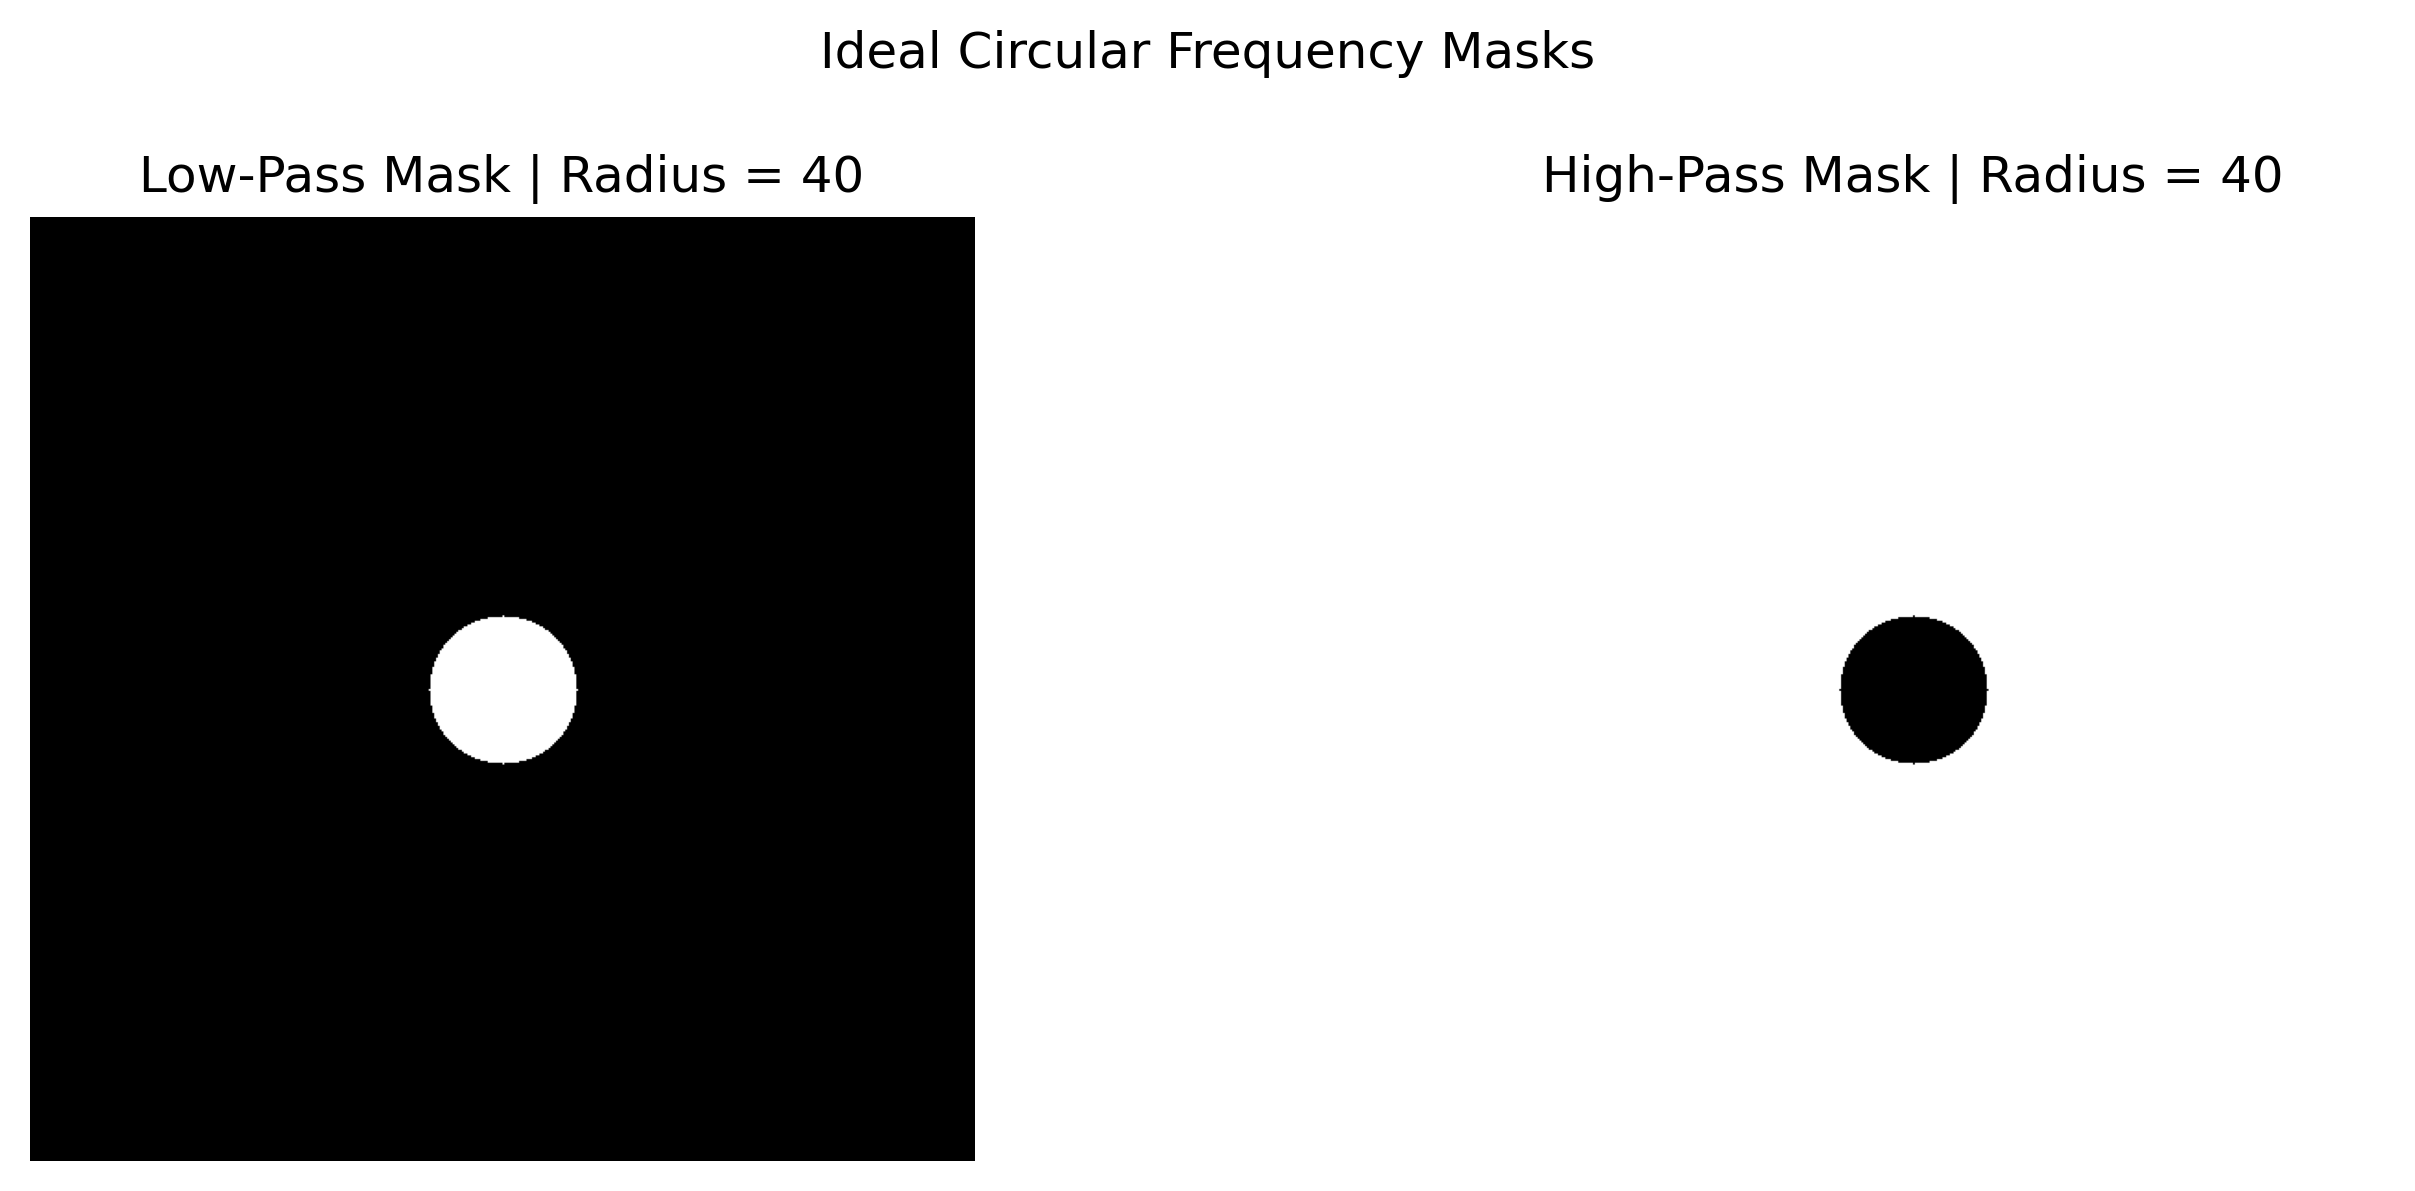
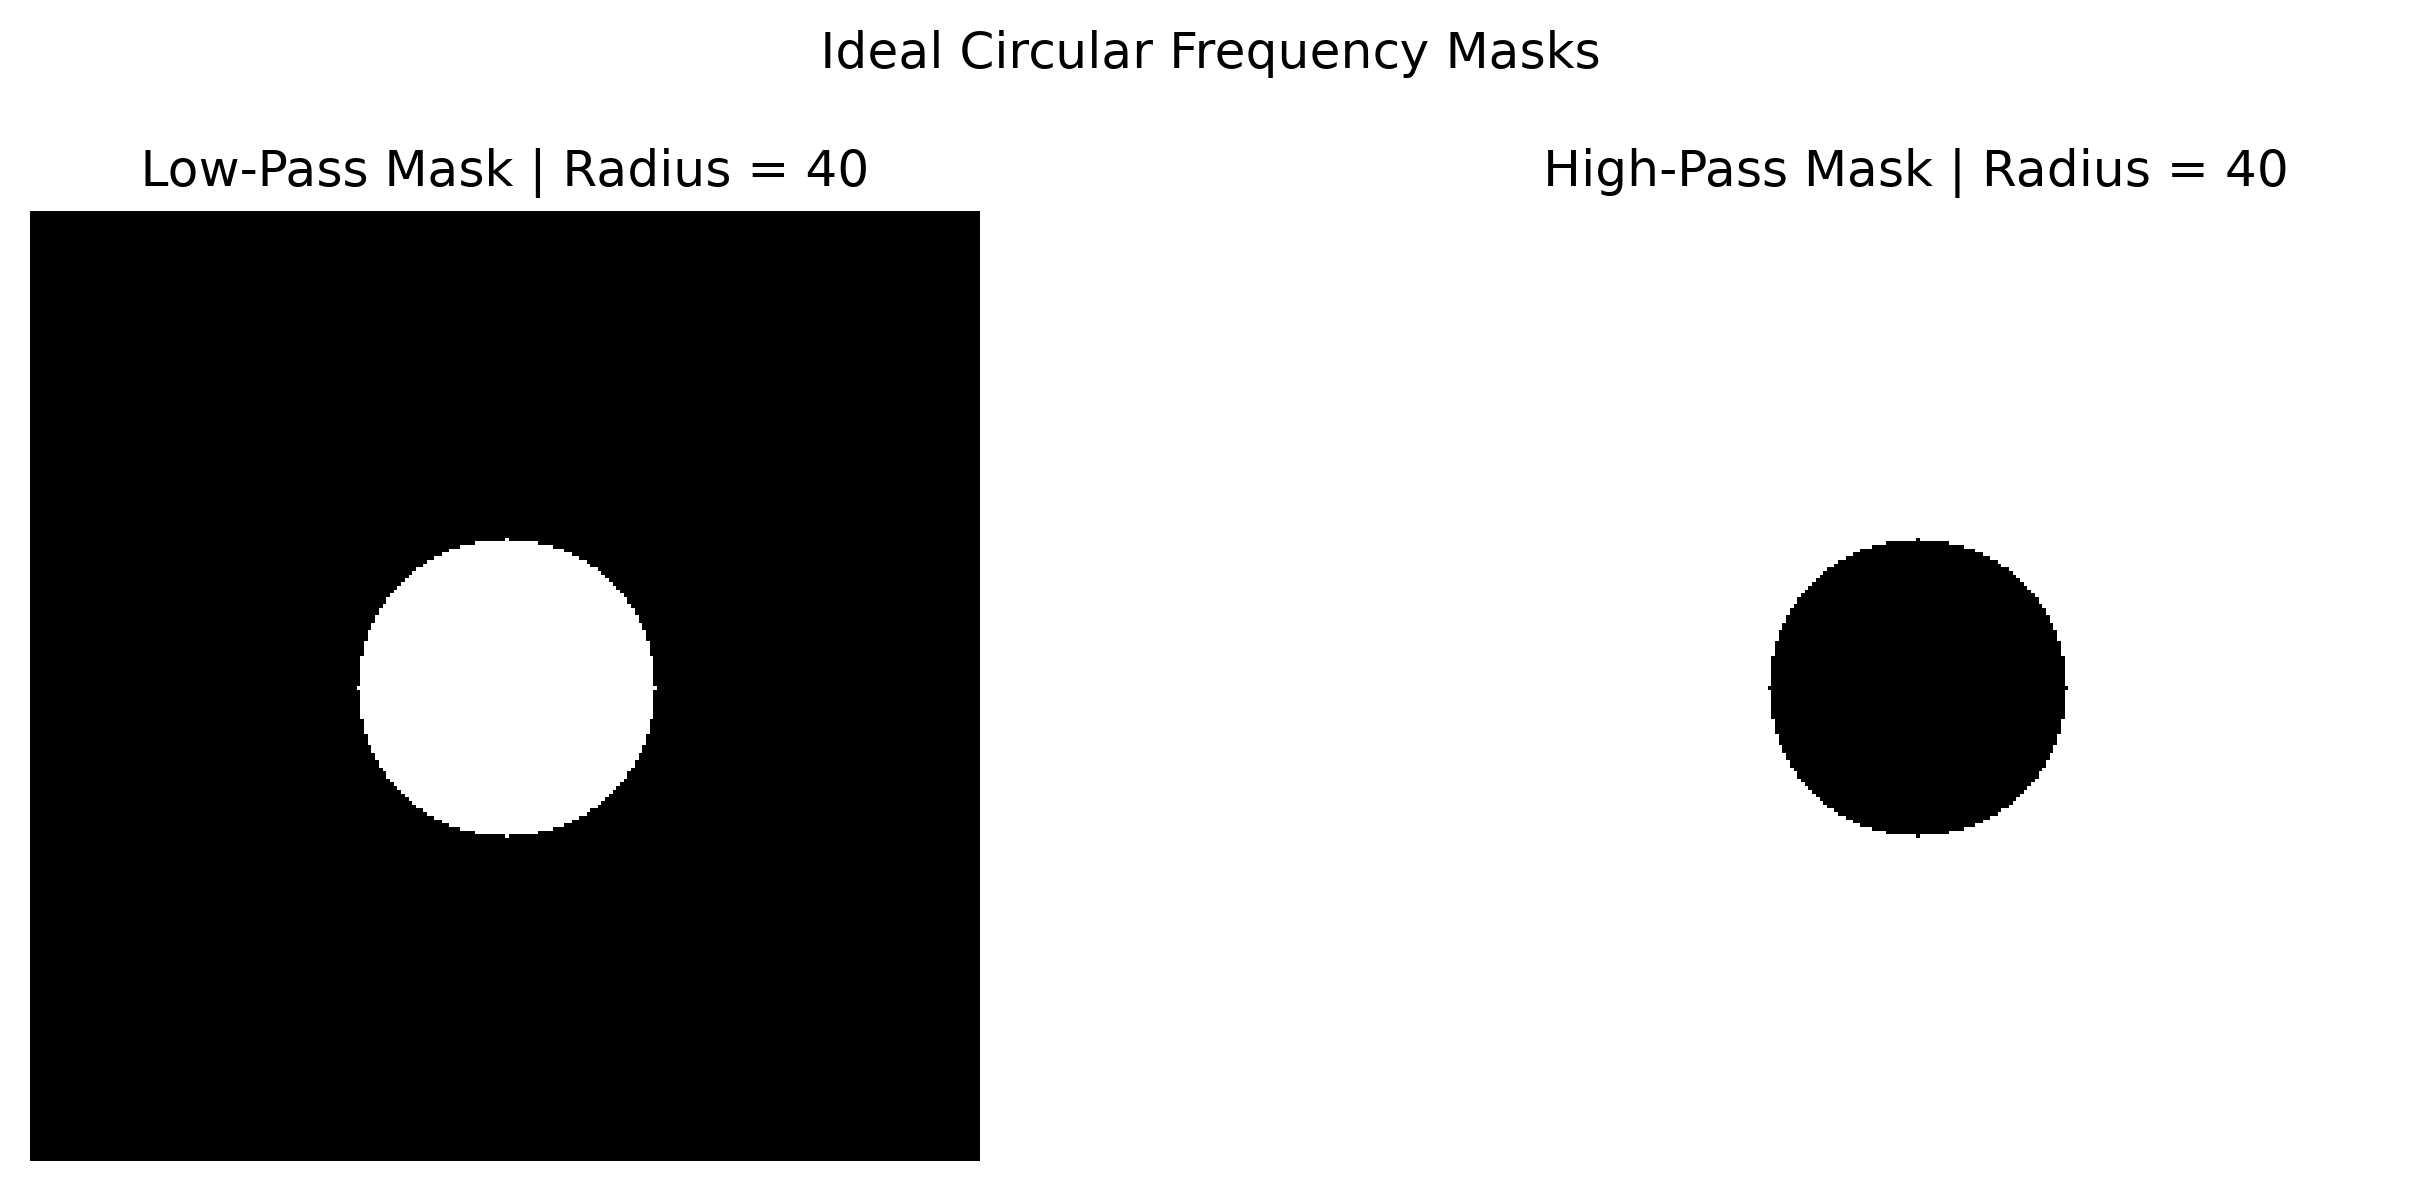
added student 1

diff --git a/students/student1_mathematical_signal_dtft/student1.py b/students/student1_mathematical_signal_dtft/student1.py
@@ -1,15 +1,387 @@
+#!/usr/bin/env python3
+"""
+Student 1 - Mathematical Signal & DTFT
+=====================================================
+
+Programming tasks:
+1. Generate a signal containing two sinusoidal components and Gaussian noise.
+2. Compute the DTFT from its defining equation using loops for a limited
+   number of samples and frequency points.
+3. Plot the magnitude and phase spectra.
+
+Theory explained in this module:
+- Discrete-time signals: x[n] obtained by sampling continuous time at t = n / fs.
+- Angular frequency (omega): Digital angular frequency omega = 2 * pi * f / fs (rad/sample),
+  where the unique frequency range for real signals is [0, pi] (up to Nyquist fs / 2).
+- Discrete-Time Fourier Transform (DTFT):
+      X(e^{j*omega}) = sum_{n=0}^{N-1} x[n] * e^{-j * omega * n}
+  which maps a discrete-time aperiodic sequence into a continuous, 2*pi-periodic
+  complex spectrum in omega.
+- Magnitude and Phase:
+      |X(e^{j*omega})| = sqrt(Re(X)^2 + Im(X)^2)  (energy/strength at frequency omega)
+      angle(X(e^{j*omega})) = atan2(Im(X), Re(X)) (initial phase shift of frequency omega)
+
+Run standalone with:
+    python students/student1_mathematical_signal_dtft/student1.py
+"""
+
+from __future__ import annotations
+
+import cmath
+import os
+import sys
+from pathlib import Path
+
+# Keep plotting non-blocking when there is no display server (e.g. headless/CI).
+if not os.environ.get("DISPLAY") and sys.platform != "win32":
+    os.environ.setdefault("MPLBACKEND", "Agg")
+
+import numpy as np
+import matplotlib.pyplot as plt
+
+# Allow direct execution of this file (adds the project root to sys.path).
+PROJECT_ROOT = Path(__file__).resolve().parents[2]
+if str(PROJECT_ROOT) not in sys.path:
+    sys.path.insert(0, str(PROJECT_ROOT))
+
+
+# ============================================================
+# 1. GENERATE DISCRETE-TIME MATHEMATICAL SIGNAL
+# ============================================================
+
 def generate_signal(sample_rate=1000.0, duration=0.25, f1=50.0, f2=120.0,
                     amplitude1=1.0, amplitude2=0.6, noise_std=0.3, seed=0):
-    pass
+    """
+    Generate a discrete-time signal containing two sinusoidal components
+    and additive white Gaussian noise (AWGN).
 
+    Mathematical model:
+        x[n] = A1 * sin(omega1 * n) + A2 * cos(omega2 * n) + w[n]
+    where:
+        n      = 0, 1, ..., N - 1   (discrete sample index, N = round(fs * duration))
+        omega1 = 2 * pi * f1 / fs   (normalized angular frequency 1 in rad/sample)
+        omega2 = 2 * pi * f2 / fs   (normalized angular frequency 2 in rad/sample)
+        w[n]   ~ N(0, noise_std^2)  (zero-mean Gaussian noise)
+
+    Parameters
+    ----------
+    sample_rate : float
+        Sampling frequency fs in Hz.
+    duration : float
+        Signal duration in seconds.
+    f1 : float
+        Frequency of the first sinusoidal component in Hz.
+    f2 : float
+        Frequency of the second sinusoidal component in Hz.
+    amplitude1 : float
+        Amplitude A1 of the first sinusoid.
+    amplitude2 : float
+        Amplitude A2 of the second sinusoid.
+    noise_std : float
+        Standard deviation (sigma) of the zero-mean Gaussian noise.
+    seed : int
+        Random number generator seed for reproducibility.
+
+    Returns
+    -------
+    signal : numpy.ndarray
+        1-D float64 array of length N containing the discrete-time signal x[n].
+    """
+    n_samples = int(round(float(sample_rate) * float(duration)))
+    n = np.arange(n_samples, dtype=np.float64)
+
+    # Normalized angular frequencies (rad/sample): omega = 2 * pi * f / fs
+    omega1 = 2.0 * np.pi * float(f1) / float(sample_rate)
+    omega2 = 2.0 * np.pi * float(f2) / float(sample_rate)
+
+    # Deterministic two-tone component + Gaussian noise
+    rng = np.random.default_rng(int(seed))
+    tone1 = float(amplitude1) * np.sin(omega1 * n)
+    tone2 = float(amplitude2) * np.cos(omega2 * n)
+    noise = float(noise_std) * rng.standard_normal(n_samples)
+
+    signal = tone1 + tone2 + noise
+    return signal.astype(np.float64)
+
+
+# ============================================================
+# 2. MANUAL DTFT FROM DEFINING EQUATION USING LOOPS
+# ============================================================
 
 def compute_dtft(signal, omega_values):
-    pass
+    """
+    Compute the Discrete-Time Fourier Transform (DTFT) directly from its
+    defining equation using explicit nested loops over a limited number of
+    samples (N) and frequency points (M):
 
+        X(e^{j*omega_k}) = sum_{n=0}^{N-1} x[n] * exp(-j * omega_k * n)
+
+    Using Euler's formula:
+        exp(-j * omega * n) = cos(omega * n) - j * sin(omega * n)
+
+    Parameters
+    ----------
+    signal : array-like
+        1-D discrete-time signal x[n] of length N.
+    omega_values : array-like
+        1-D array of angular frequencies omega (in rad/sample) of length M.
+
+    Returns
+    -------
+    spectrum : numpy.ndarray
+        1-D complex128 array of length M containing X(e^{j*omega}) for each omega.
+    """
+    x = np.asarray(signal, dtype=np.float64)
+    omega_grid = np.asarray(omega_values, dtype=np.float64)
+
+    n_samples = x.size
+    n_freqs = omega_grid.size
+    spectrum = np.zeros(n_freqs, dtype=np.complex128)
+
+    # Convert to plain Python lists so the explicit loops run without NumPy scalar overhead
+    x_list = x.tolist()
+    omega_list = omega_grid.tolist()
+    exp = cmath.exp
+
+    # Outer loop: iterate over each angular frequency point omega_k
+    for k in range(n_freqs):
+        omega_k = omega_list[k]
+        acc = 0.0 + 0.0j
+        # Inner loop: sum over all discrete-time sample indices n = 0 .. N-1
+        for n in range(n_samples):
+            acc += x_list[n] * exp(-1j * omega_k * n)
+        spectrum[k] = acc
+
+    return spectrum
+
+
+# ============================================================
+# 3. PLOT MAGNITUDE AND PHASE SPECTRA
+# ============================================================
 
 def plot_magnitude_phase(omega, spectrum, sample_rate, show=True):
-    pass
+    """
+    Plot the DTFT magnitude and phase spectra against normalized angular
+    frequency (omega / pi) and physical frequency (Hz).
 
+    Parameters
+    ----------
+    omega : array-like
+        1-D array of angular frequencies in rad/sample (typically in [0, pi]).
+    spectrum : array-like
+        1-D complex DTFT values X(e^{j*omega}).
+    sample_rate : float
+        Sampling rate fs in Hz (used to map omega to physical frequency f = omega * fs / (2*pi)).
+    show : bool
+        If True and an interactive backend is active, display the figure.
+
+    Returns
+    -------
+    fig : matplotlib.figure.Figure
+        The generated matplotlib figure containing magnitude and phase subplots.
+    """
+    omega = np.asarray(omega, dtype=np.float64)
+    spectrum = np.asarray(spectrum, dtype=np.complex128)
+
+    magnitude = np.abs(spectrum)
+    magnitude_db = 20.0 * np.log10(magnitude + 1e-12)
+    phase_wrapped = np.angle(spectrum)
+    phase_unwrapped = np.unwrap(phase_wrapped)
+
+    norm_omega = omega / np.pi
+    freqs_hz = omega * float(sample_rate) / (2.0 * np.pi)
+
+    fig, axes = plt.subplots(3, 1, figsize=(10, 9), sharex=True)
+
+    # 1. Linear Magnitude Spectrum |X(e^{j*omega})|
+    axes[0].plot(norm_omega, magnitude, color="#3b82f6", linewidth=1.3)
+    axes[0].set_title(f"DTFT Linear Magnitude Spectrum |X(e^(jω))|  (fs = {sample_rate:.0f} Hz)")
+    axes[0].set_ylabel("Magnitude |X(ω)|")
+    axes[0].grid(True, alpha=0.3)
+
+    # Annotate top 2 spectral peaks (excluding DC bin 0)
+    if magnitude.size > 4:
+        peak1_idx = int(np.argmax(magnitude[1:])) + 1
+        masked = magnitude.copy()
+        w = max(3, magnitude.size // 50)
+        masked[max(0, peak1_idx - w):min(magnitude.size, peak1_idx + w + 1)] = 0.0
+        masked[0] = 0.0
+        peak2_idx = int(np.argmax(masked))
+        axes[0].axvline(norm_omega[peak1_idx], color="#ef4444", linestyle="--", alpha=0.75,
+                        label=f"Peak 1: ω={norm_omega[peak1_idx]:.2f}π ({freqs_hz[peak1_idx]:.1f} Hz)")
+        axes[0].axvline(norm_omega[peak2_idx], color="#f59e0b", linestyle="--", alpha=0.75,
+                        label=f"Peak 2: ω={norm_omega[peak2_idx]:.2f}π ({freqs_hz[peak2_idx]:.1f} Hz)")
+        axes[0].legend(loc="upper right", fontsize=9)
+
+    # 2. Logarithmic Magnitude Spectrum (dB)
+    axes[1].plot(norm_omega, magnitude_db, color="#06b6d4", linewidth=1.2)
+    axes[1].set_title("DTFT Magnitude Spectrum in Decibels (20 log₁₀ |X(e^(jω))|)")
+    axes[1].set_ylabel("Magnitude (dB)")
+    axes[1].grid(True, alpha=0.3)
+
+    # 3. Phase Spectrum angle(X(e^{j*omega}))
+    axes[2].plot(norm_omega, phase_unwrapped, color="#a855f7", linewidth=1.1, label="Unwrapped phase")
+    axes[2].set_title("DTFT Phase Spectrum ∠X(e^(jω))")
+    axes[2].set_xlabel("Normalized Angular Frequency (ω / π)  [1.0 = Nyquist fs/2]")
+    axes[2].set_ylabel("Phase (radians)")
+    axes[2].grid(True, alpha=0.3)
+    axes[2].legend(loc="upper right", fontsize=9)
+
+    fig.suptitle("Student 1: Discrete-Time Fourier Transform (DTFT) Magnitude & Phase", fontsize=14)
+    fig.tight_layout()
+
+    if show and plt.get_backend().lower() != "agg":
+        plt.show()
+
+    return fig
+
+
+def plot_time_and_clean_vs_noisy(signal, clean_signal, sample_rate, f1, f2, show=True):
+    """
+    Plot the generated discrete-time signal in the time domain (clean vs. noisy
+    and discrete stem plot) to illustrate discrete-time sampling.
+    """
+    n_samples = signal.size
+    n = np.arange(n_samples)
+    t_ms = (n / float(sample_rate)) * 1000.0
+    window = min(n_samples, int(0.08 * sample_rate))  # First 80 ms
+
+    fig, axes = plt.subplots(2, 1, figsize=(10, 6), sharex=True)
+
+    axes[0].plot(t_ms[:window], clean_signal[:window], color="#22c55e", linewidth=1.4,
+                 label=f"Clean 2-tone ({f1:.0f} Hz + {f2:.0f} Hz)")
+    axes[0].plot(t_ms[:window], signal[:window], color="#3b82f6", linewidth=1.0, alpha=0.8,
+                 label="Noisy signal x[n]")
+    axes[0].set_title(f"Time-Domain Signal Comparison (First {window} samples)")
+    axes[0].set_ylabel("Amplitude")
+    axes[0].legend(loc="upper right", fontsize=9)
+    axes[0].grid(True, alpha=0.3)
+
+    markerline, stemlines, baseline = axes[1].stem(
+        t_ms[:window], signal[:window], linefmt="C0-", markerfmt="C0o", basefmt="k-"
+    )
+    plt.setp(markerline, markersize=3.5)
+    plt.setp(stemlines, linewidth=0.8)
+    axes[1].set_title("Discrete-Time Sequence x[n] (Stem Representation)")
+    axes[1].set_xlabel("Time (ms)")
+    axes[1].set_ylabel("x[n]")
+    axes[1].grid(True, alpha=0.3)
+
+    fig.tight_layout()
+    if show and plt.get_backend().lower() != "agg":
+        plt.show()
+
+    return fig
+
+
+# ============================================================
+# 4. MAIN PIPELINE
+# ============================================================
 
 def main(sample_rate=1000.0, show=True):
-    pass
+    """
+    Execute the complete Student 1 pipeline:
+    1. Generate a two-sinusoid discrete-time signal with Gaussian noise.
+    2. Compute the DTFT via explicit loops over limited samples and frequency points.
+    3. Verify loop-based DTFT accuracy against vectorized NumPy reference.
+    4. Plot time-domain signal and DTFT magnitude & phase spectra.
+    5. Save figures to outputs/student1/.
+    """
+    duration = 0.25          # N = 250 samples at fs = 1000 Hz
+    f1 = 50.0                # First sinusoid frequency (Hz)
+    f2 = 120.0               # Second sinusoid frequency (Hz)
+    amplitude1 = 1.0         # First sinusoid amplitude
+    amplitude2 = 0.6         # Second sinusoid amplitude
+    noise_std = 0.3          # Gaussian noise standard deviation
+    seed = 0
+    num_freq_points = 512    # Limited number of frequency points in [0, pi]
+
+    print(f"Generating discrete-time signal (fs = {sample_rate:.0f} Hz, duration = {duration} s)...")
+    signal = generate_signal(
+        sample_rate=sample_rate,
+        duration=duration,
+        f1=f1,
+        f2=f2,
+        amplitude1=amplitude1,
+        amplitude2=amplitude2,
+        noise_std=noise_std,
+        seed=seed,
+    )
+    clean_signal = generate_signal(
+        sample_rate=sample_rate,
+        duration=duration,
+        f1=f1,
+        f2=f2,
+        amplitude1=amplitude1,
+        amplitude2=amplitude2,
+        noise_std=0.0,
+        seed=seed,
+    )
+
+    n_samples = signal.size
+    omega1 = 2.0 * np.pi * f1 / sample_rate
+    omega2 = 2.0 * np.pi * f2 / sample_rate
+
+    print(f"  Samples (N)          : {n_samples}")
+    print(f"  Component 1          : f1 = {f1:.1f} Hz  ->  omega1 = {omega1 / np.pi:.3f}*pi rad/sample (A1 = {amplitude1})")
+    print(f"  Component 2          : f2 = {f2:.1f} Hz  ->  omega2 = {omega2 / np.pi:.3f}*pi rad/sample (A2 = {amplitude2})")
+    print(f"  Gaussian noise std   : sigma = {noise_std}")
+
+    # Frequency grid in [0, pi]
+    omega = np.linspace(0.0, np.pi, num_freq_points)
+    print(f"Computing manual DTFT using nested loops ({n_samples} samples x {num_freq_points} frequency points)...")
+    spectrum = compute_dtft(signal, omega)
+
+    # Verify accuracy against vectorized inner product
+    n_idx = np.arange(n_samples, dtype=np.float64)
+    reference_spectrum = np.exp(-1j * np.outer(omega, n_idx)) @ signal
+    max_diff = float(np.max(np.abs(spectrum - reference_spectrum)))
+
+    magnitude = np.abs(spectrum)
+    freqs_hz = omega * float(sample_rate) / (2.0 * np.pi)
+
+    # Locate the two dominant peaks
+    peak1_idx = int(np.argmax(magnitude[1:])) + 1
+    peak1_hz = float(freqs_hz[peak1_idx])
+    peak1_omega = float(omega[peak1_idx])
+
+    # Mask around peak 1 to find the second peak
+    masked_mag = magnitude.copy()
+    mask_width = max(3, num_freq_points // 50)
+    low_b = max(0, peak1_idx - mask_width)
+    high_b = min(num_freq_points, peak1_idx + mask_width + 1)
+    masked_mag[low_b:high_b] = 0.0
+    masked_mag[0] = 0.0
+    peak2_idx = int(np.argmax(masked_mag))
+    peak2_hz = float(freqs_hz[peak2_idx])
+    peak2_omega = float(omega[peak2_idx])
+
+    print(f"  Detected Peak 1      : {peak1_hz:.2f} Hz (omega = {peak1_omega / np.pi:.3f}*pi, |X| = {magnitude[peak1_idx]:.2f})")
+    print(f"  Detected Peak 2      : {peak2_hz:.2f} Hz (omega = {peak2_omega / np.pi:.3f}*pi, |X| = {magnitude[peak2_idx]:.2f})")
+    print(f"  Max error vs. NumPy  : {max_diff:.2e}")
+
+    # Plot and save artifacts
+    time_fig = plot_time_and_clean_vs_noisy(signal, clean_signal, sample_rate, f1, f2, show=show)
+    dtft_fig = plot_magnitude_phase(omega, spectrum, sample_rate, show=show)
+
+    output_dir = PROJECT_ROOT / "outputs" / "student1"
+    output_dir.mkdir(parents=True, exist_ok=True)
+    time_fig.savefig(output_dir / "time_domain_signal.png", dpi=200, bbox_inches="tight")
+    dtft_fig.savefig(output_dir / "dtft_magnitude_phase.png", dpi=200, bbox_inches="tight")
+    print(f"  Saved plots to       : {output_dir.relative_to(PROJECT_ROOT)}")
+    print("Student 1 finished.")
+
+    return {
+        "signal": signal,
+        "clean_signal": clean_signal,
+        "omega": omega,
+        "spectrum": spectrum,
+        "magnitude": magnitude,
+        "phase": np.unwrap(np.angle(spectrum)),
+        "sample_rate": sample_rate,
+        "output_dir": output_dir,
+    }
+
+
+if __name__ == "__main__":
+    main()
